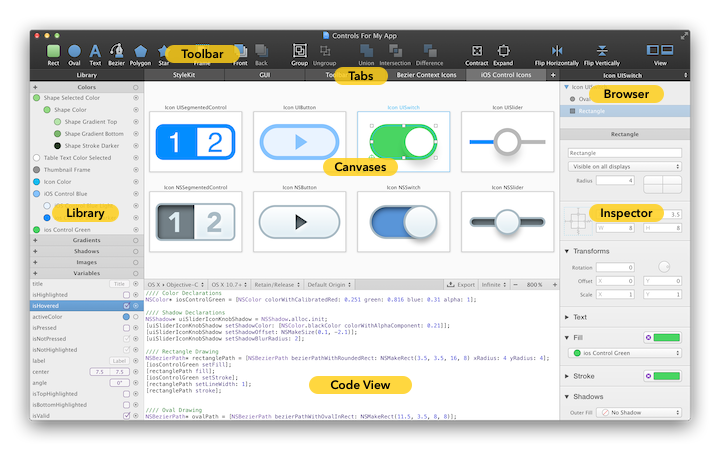
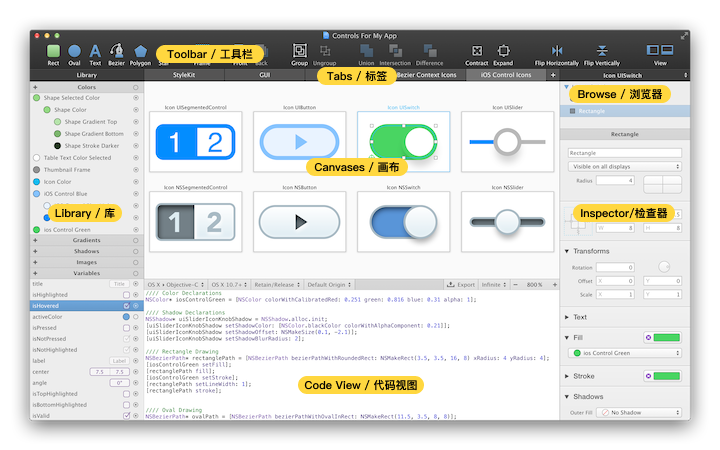
优化 前两节 的部分词汇

diff --git a/Part.2.library.A.core-concepts.md b/Part.2.library.A.core-concepts.md
@@ -1,30 +1,30 @@
 # 核心概念
 
-库是你创建和管理颜色、渐变、阴影、图片和变量的地方。这些库项的 **行为** 是根据你的 UI 设计的需要定制的。
+**库**是你创建和管理颜色、渐变、阴影、图片和变量的地方。这些库项的**行为**是为 UI 设计的需要专门设计的。
 
-举个例子，你可以在多个图形中使用相同的颜色，之后如果你调整这个颜色，所有使用到它的图形都会自动更新。渐变、阴影、图片和变量也是一样的道理。
+举个例子，你可以在多个图形中使用相同的颜色，之后如果你调整这个颜色，所有使用到它的形状都会自动更新颜色。渐变、阴影、图片和变量也是一样的道理。
 
-![库1](images/library1.png)
+![库1](./images/library1.png)
 
-这个功能非常有用，因为你可以很轻松地在一个地方调整你设计的界面的配色方案。
+这个功能非常有用，因为你可以很轻松地在一个地方调整你在设计的界面的配色方案。
 
-此外，一些库项之间还可以形成关系。比如，你只需要通过 **内置的颜色运算**，就可以从现有颜色里派生出新的颜色。渐变和阴影也可以通过库里的颜色衍生得到。表达式变量可以引用其他的库项。
+此外，一些库项之间还可以形成关联。比如，你只需要通过 **内置颜色运算**，就可以从现有颜色衍生出新的颜色。渐变和阴影也可以通过从库里的颜色衍生得到。表达式变量可以引用其他的库项。
 
-> Tovi注： 内置的颜色运算 原文 the built-in operations。指的是派生色 PaintCode 内置的一个功能，它可以在基础色的基础上，通过改变透明度、色相、饱和度等来生成一个衍生色。后面还会出现这个词。
+> Tovi注： 内置颜色运算 原文 the built-in operations。PaintCode 内置的一个功能，它可以在基础色的基础上，通过改变透明度、色相、饱和度等来生成一个衍生色。后面还会出现这个词。
 
-![Color Tree 1](images/colorstree1.png)
+![Color Tree 1](./images/colorstree1.png)
 
-利用这个功能，你可以定义一个依赖于单个或多个基础色的颜色、渐变和阴影家族树。当你调整这个基础色时，所有直接或间接依赖于它的 **库项** 和 **图形** 都会自动更新：
+利用这个功能，你可以定义一个依赖于单个或多个基础色的颜色、渐变和阴影家族树。当你调整这个基础色时，所有直接或间接依赖于它的**库项**和**形状**都会自动更新：
 
-![Color Tree 2](images/colorstree2.png)
+![Color Tree 2](./images/colorstree2.png)
 
-假设你正在设计一组颜色丰富的 UI 控件，你可以从一个基础色中衍生出所有的颜色、渐变和阴影。之后，再通过调整这个基础色，你就可以轻松地改变整个文件的配色方案。
+假设你正在设计一组颜色丰富的 UI 控件，你可以从一个基础色中衍生出所有需要的颜色、渐变和阴影。之后，再通过调整这个基础色，你就可以轻松地改变整个文件的配色方案。
 
-![Various Controls](images/variouscontrols.png)
+![Various Controls](./images/variouscontrols.png)
 
 ## 命名
 
-每个库项都有一个名字。当你新建项的时候 PaintCode 会自动为你生成名字，不过你可以（可能也应该）为这些项提供你自己的、更具有描述性的名字。这些名字在生成代码的时候会用到。你可以在名字中使用空格 —— PaintCode 会在生成的代码中自动将 `'Button Base Color'` 转换成 `'buttonBaseColor'`， 它还不允许你使用生成的目标代码中的保留名字，所以你不必担心生成的代码中任何潜在的命名冲突。
+每个库项都有一个名字。PaintCode 会为你生成这些名字，不过你可以（可能也应该）为你的库项提供你自己的、更具有描述性的名字。这些名字在生成代码时会用到。你可以在名字中使用空格 —— PaintCode 在生成的代码中会自动将 `'Button Base Color'` 转换成 `'buttonBaseColor'`， 它还不允许你使用生成的目标代码中的保留名字，所以你不必担心生成的代码中任何潜在的命名冲突。
 
 > Tovi注：这也是 Paintcode 可以导出高质量的代码的原因之一。严格的命名不冲突。
 
@@ -34,11 +34,11 @@
 
 **库** 被分成了五个部分：颜色、渐变、阴影、图片和变量。你可以通过点击对应部分顶部的 `'+'` 按钮来新建一个库项（比如颜色）。
 
-![库](images/library2.png)
+![库](./images/library2.png)
 
 要删除一个库项，单击它，然后按 `'Delete'` 或 `'Back Space'` 键。要调整某个库项，在列表中找到并双击它就可以了。或者，你可以在检查器中单击 已经调用库项的 **按钮槽** 来显示编辑弹窗。
 
-![Well](images/wells.png)
+![Well](./images/wells.png)
 
 ## 复制与粘贴行为
 
@@ -48,7 +48,7 @@
 
 每个库项的 **名字输入框** 右边都有个特殊的弹出按钮（就是那个有齿轮图标的按钮）。
 
-![Parametric Color](images/parametriccolor.png)
+![Parametric Color](./images/parametriccolor.png)
 
 你可以在这里配置库项的行为，这无论是对于 [代码生成]() 还是对于 [Symbol]() 的使用都非常重要。
 

diff --git a/Part.1.overview.md b/Part.1.overview.md
@@ -1,53 +1,53 @@
 # 概述
 
-![PaintCode UI](images/paintcode_ui.png)
+![PaintCode 界面](./images/paintcode_ui.png)
 
-PaintCode 是一个可以将你的绘图，实时转换成 Objective-C、 Swift 和 C# 代码的矢量绘图软件。它的应用程序窗口被划分成了 4 个部分，便于快速地找到你需要的所有功能。
+PaintCode 是一个可以将你的绘图实时转换成 Objective-C、 Swift 和 C# 绘图代码的矢量绘图软件。它的应用程序窗口被划分成了 4 个部分，便于快速地找到你需要的所有功能。
 
 ## 工具栏
 
-窗口顶部的工具栏包含了你会最经常用到的绘图工具。
+窗口顶部的**工具栏**包含了你会经常使用的绘图工具。
 
 ![Toolbar](images/toolbar.png)
 
-## 标签页和 StyleKit
+## 标签和 StyleKit
 
-标签页位于工具栏下方的中间位置。你可以使用标签页来管理你 Paintcode 文件中的绘图。每个标签页都可以包含多个绘图画布。
+标签栏位于工具栏下方的中间位置。你可以使用标签来管理你 Paintcode 文件中的绘图。每个标签页都可以包含多个绘图画布。
 
-第一个标签页叫 `StyleKit`，它比较特殊，你可以在这里找到你的 Stylekit 分类 —— 一个绘图、颜色、渐变和其他设计资源的集合，你可以直接把它导出成一个单独的 Objective-C、 Swift 或 C# 类。Stylekit 让你轻松地将生成的代码集成到你的项目中去。
+第一个标签比较特殊，叫 **StyleKit**，你可以在这里找到你的 Stylekit 目录 —— 一个绘图、颜色、渐变和其他设计资源的集合，你可以轻松地将它导出成一个单独的 Objective-C、 Swift 或 C# 类。Stylekit 让你轻松地将生成的代码集成到你的项目中。
 
-![Tabs](images/tabs.png)
+![Tabs](./images/tabs.png)
 
 ## 库
 
-库（窗口左侧）是所有颜色、渐变、阴影、图片和变量的集合。库里边所有的项都可以在文件中重复使用。这些项在 PaintCode 中是独立的实体，当你在库中改变它们的时候，所有使用到它们的绘图都会受影响而立即改变。
+库（窗口左侧）是所有颜色、渐变、阴影、图片和变量的集合。库里边所有的项都可以在文件中重复使用。库项在 PaintCode 中是独立的实体，当你改变了一个库项，所有使用到它的绘图都会立即收到影响。
 
 > Tovi注：库项，英文为 library item。指的是窗口左侧的 库 中那些颜色、渐变等元素。因为这个词汇在文档的后面也会提到多次，但是在中文中我并没有听过 库项 这个词，所以还是有些迟疑的。不管怎么说，在没找到更好的翻译之前，先用着 库项 这个翻译。
 
-![Library](images/library.png)
+![Library](./images/library.png)
 
 ## 画布
 
-PaintCode 软件窗口的中间部分包含了当前选中的标签页的内容。通常，你会在这个区域看到一个或多个绘图画布。
+软件窗口的中间部分包含了当前选中的标签的内容。通常你会在这个区域看到一个或多个绘图画布。
 
-![Canvases](images/canvases.png)
+![Canvases](./images/canvases.png)
 
 ## 代码视图和中间工具栏
 
-你可以在中间的工具栏那里更改代码生成设置（比如更改生成代码的目标语言和操作系统版本）。同时，你也可以在这里更改画布的显示设置，如缩放和像素密度（视网膜屏、非视网膜屏或无限模式）。
+你可以在**中间工具栏**那里更改代码生成设置（比如目标程序语言和操作系统版本）。你也可以在这里更改**画布显示设置**，如缩放和像素密度（Retina、non-Retina 或无限模式）。
 
-在这个工具栏的下方是代码视图，包含了生成的代码。你可以通过向下拖动中间工具栏来隐藏代码视图，这样你就可以有更多的空间来显示你的绘图画布，而且当在处理比较复杂的文件的时候，还可以通过这种方式来优化软件性能。
+在这个工具栏的下方是**代码视图**，包含了生成的代码。你可以通过拖动中间工具栏来隐藏代码视图，这样你就可以有更多的空间来显示你的绘图画布，而且当在处理比较复杂的文件的时，还可以通过这种方式来优化软件性能。
 
-![Code View](images/codeview.png)
+![Code View](./images/codeview.png)
 
 ## 形状和组浏览器
 
-形状和组浏览器位于窗口的的右上方，就在工具栏的下面。这是当前选中画布中所有 **图形** 的列表。你会发现画布也本身位于这个列表的根目录里。当你选中一个画布时，针对它的设置会出现在下侧的检查器里。
+**形状和组浏览器**位于窗口的的右上方，就在工具栏的下面。这是当前选中画布中所有**图形**的列表。你会发现画布也本身位于这个列表的根目录里。当你选中一个画布时，它的相关设置会出现在它下方的检查器里。
 
-![Browser](images/browser.png)
+![Browser](./images/browser.png)
 
 ## 检查器
 
 检查器在窗口的右边。你可以在这里更改所选对象的属性，通常就是指画布里的图形。
 
-![Inspector](images/inspector.png)
+![Inspector](./images/inspector.png)

diff --git a/term.md b/term.md
@@ -1,13 +1,24 @@
 
-# 一些还没找到更好翻译的词汇
+# 词汇说明
 
-library item：库项
-
-behavior：行为
+## Overview
 
 drawing：绘图
+library item：库项
+behavior：行为
+document：文件（通常指 PaintCode 文件）
+class：类（编程词汇）
+shape：形状
 
-shape：图形、形状
+## Library
+
+### 核心概念
+
+the built-in operations：内置的颜色运算
+user interface controls：ui 控件
+
+
+
 
 well：按钮槽
 
@@ -15,7 +26,7 @@ control：控件
 
 drawing method：绘方法
 
-the built-in operations：内置的颜色运算
+
 
 popup button：弹出按钮
 
